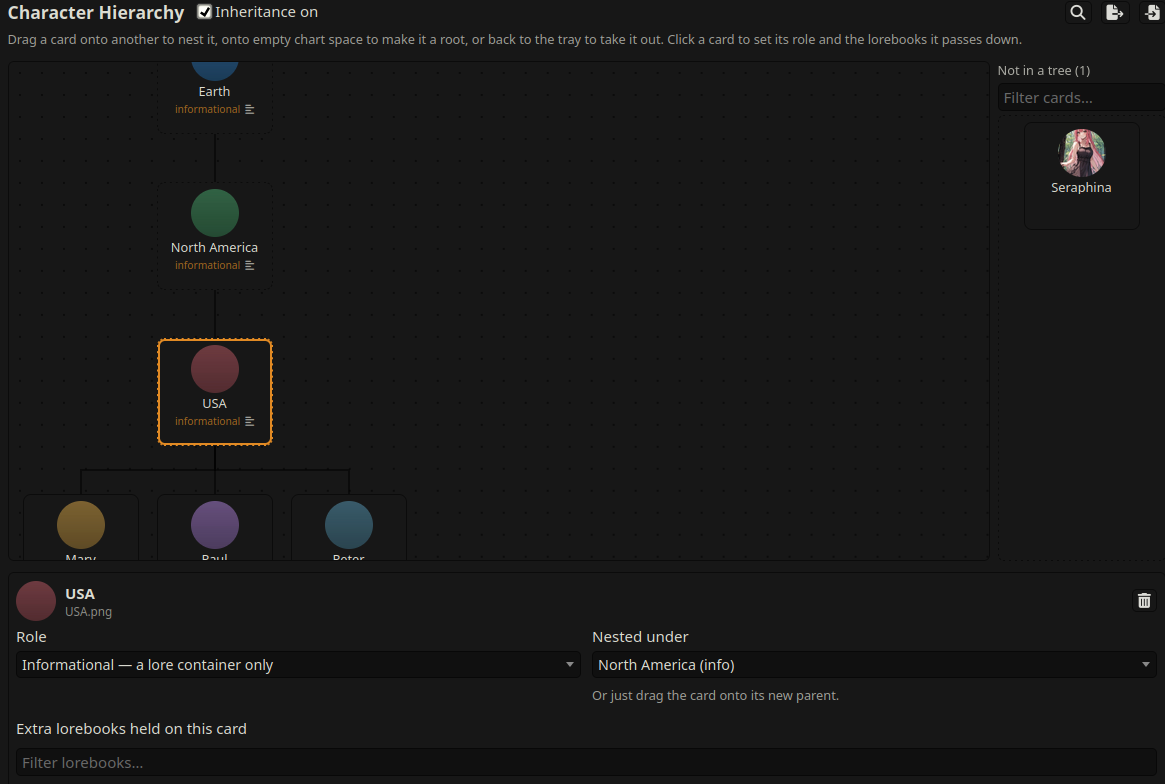
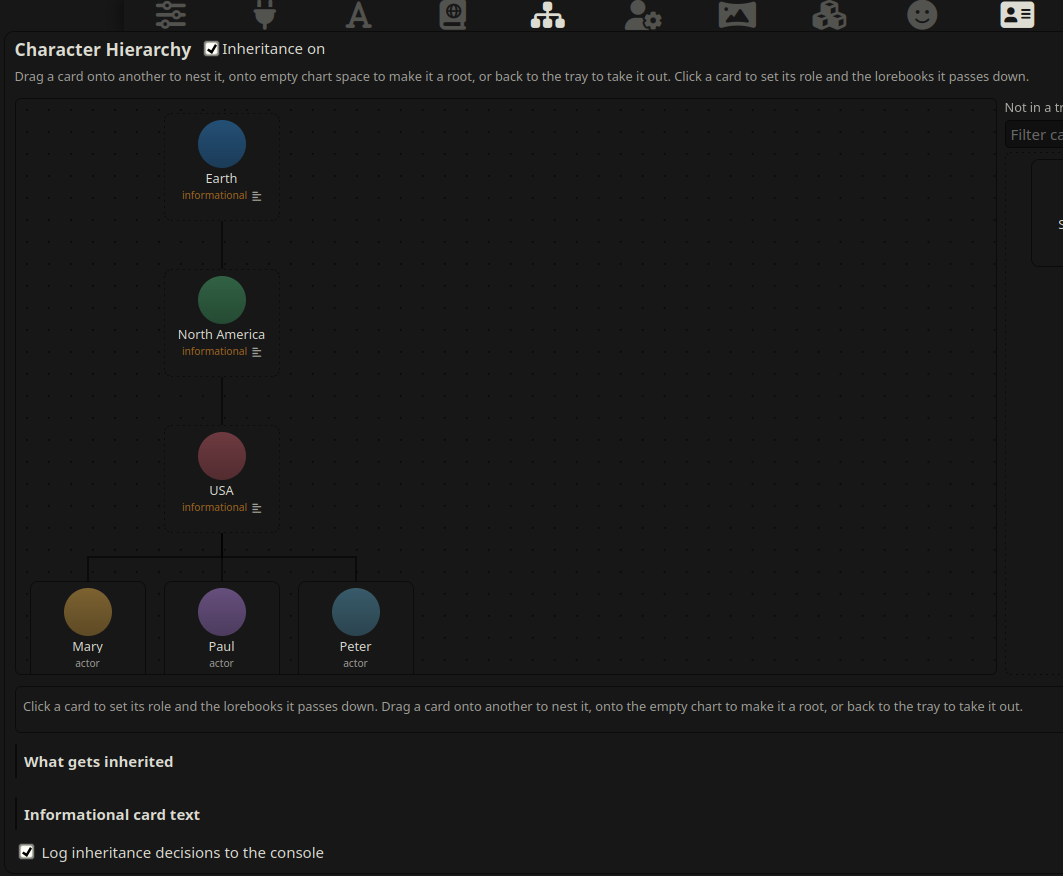
Use a real panel screenshot, and stop repeating the drag hint
Replaces the README image with a shot of the panel after the overflow
fix: the whole tree is visible, root to leaves, with no clipping. Cropped
to the panel so a pinned character list that was overlapping the tray
does not dominate the frame; the top bar is kept in, since it shows where
the sitemap icon sits.

The shot also made it obvious that the panel header and the empty card
editor were giving the same drag-and-drop instructions one above the
other. The editor now just says to click a card.

diff --git a/index.js b/index.js
@@ -1540,9 +1540,10 @@ function renderEditor() {
     container.innerHTML = '';
 
     if (!selectedAvatar) {
+        // The panel header already explains dragging; no need to say it twice.
         container.append(el('div', {
             className: 'ch-hint',
-            textContent: 'Click a card to set its role and the lorebooks it passes down. Drag a card onto another to nest it, onto the empty chart to make it a root, or back to the tray to take it out.',
+            textContent: 'Click a card in the chart to edit it.',
         }));
         return;
     }

diff --git a/README.md b/README.md
@@ -22,9 +22,9 @@ When Sir Brant speaks, the world info scan sees *Brant's Private Lore*, *Vance F
 Brant's own book. Neither card needs the other's lorebooks attached by hand, and adding a fact
 to *Aldian History* reaches every character in the kingdom at once.
 
-![The Character Hierarchy panel: an org chart with Earth at the root, North America and USA
-nested beneath it and Peter, Paul and Mary on the bottom row, a tray of cards not yet in a tree
-down the right, and the selected card's settings in a panel underneath.](media/panel.png)
+![The Character Hierarchy panel open in SillyTavern: an org chart with Earth at the root,
+North America and USA nested beneath it, and Mary, Paul and Peter side by side on the bottom
+row, each card showing its avatar and role.](media/panel.png)
 
 ## What you get
 
